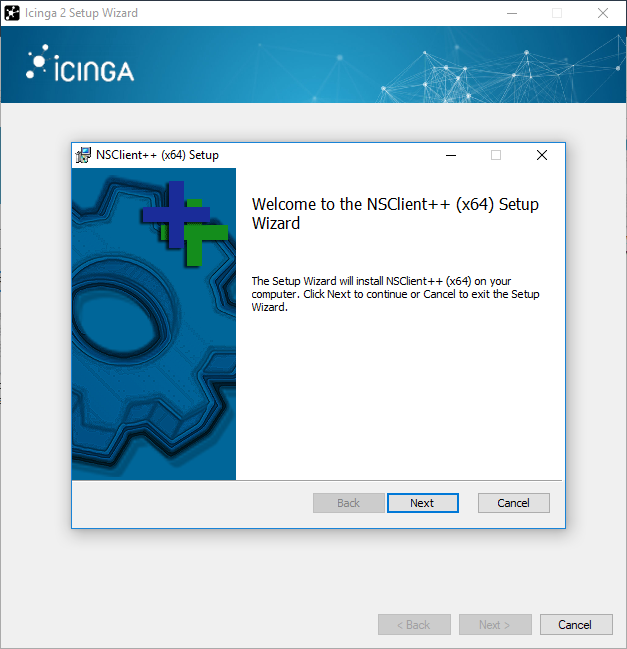
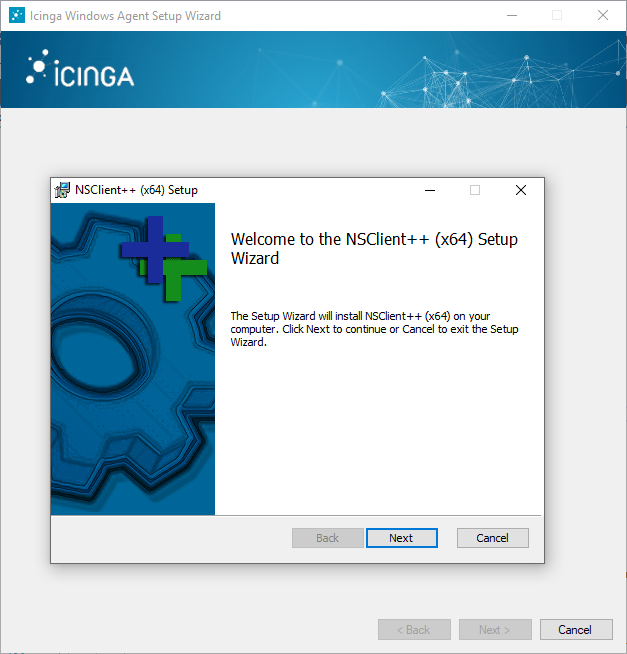
Docs: Refresh Windows agent setup images for 2.11

Changed region(s): [[0.0606, 0.2157, 0.9394, 0.8937], [0.0, 0.0, 1.0, 0.1849], [0.8788, 0.9553, 0.9394, 0.9861]]

diff --git a/doc/06-distributed-monitoring.md b/doc/06-distributed-monitoring.md
@@ -750,6 +750,8 @@ the [configuration modes](06-distributed-monitoring.md#distributed-monitoring-co
 
 ### Agent Setup on Windows <a id="distributed-monitoring-setup-agent-windows"></a>
 
+#### Agent Setup on Windows: Installer <a id="distributed-monitoring-setup-agent-windows-installer"></a>
+
 Download the MSI-Installer package from [https://packages.icinga.com/windows/](https://packages.icinga.com/windows/).
 
 Requirements:
@@ -769,8 +771,6 @@ to get you started more easily.
 > Please note that Icinga 2 was designed to run as light-weight agent on Windows.
 > There is no support for satellite instances.
 
-#### Windows Agent Setup Start <a id="distributed-monitoring-setup-agent-windows-start"></a>
-
 Run the MSI-Installer package and follow the instructions shown in the screenshots.
 
 ![Icinga 2 Windows Setup](images/distributed-monitoring/icinga2_windows_setup_installer_01.png)
@@ -779,12 +779,14 @@ Run the MSI-Installer package and follow the instructions shown in the screensho
 ![Icinga 2 Windows Setup](images/distributed-monitoring/icinga2_windows_setup_installer_04.png)
 ![Icinga 2 Windows Setup](images/distributed-monitoring/icinga2_windows_setup_installer_05.png)
 
-The graphical installer offers to run the Icinga 2 setup wizard after the installation. Select
-the check box to proceed.
+The graphical installer offers to run the [Icinga Agent setup wizard](06-distributed-monitoring.md#distributed-monitoring-setup-agent-windows-configuration-wizard)
+after the installation. Select the check box to proceed.
 
 > **Tip**
 >
-> You can also run the Icinga 2 setup wizard from the Start menu later.
+> You can also run the Icinga agent setup wizard from the Start menu later.
+
+#### Agent Setup on Windows: Configuration Wizard <a id="distributed-monitoring-setup-agent-windows-configuration-wizard"></a>
 
 On a fresh installation the setup wizard guides you through the initial configuration.
 It also provides a mechanism to send a certificate request to the [CSR signing master](distributed-monitoring-setup-sign-certificates-master).
@@ -816,13 +818,13 @@ When needed you can add an additional global zone (the zones `global-templates` 
 
 Optionally enable the following settings:
 
-  Parameter                         | Description
-  ----------------------------------|----------------------------------
-  Accept config                     | **Optional.** Whether this node accepts configuration sync from the master node (required for [config sync mode](06-distributed-monitoring.md#distributed-monitoring-top-down-config-sync)). For [security reasons](06-distributed-monitoring.md#distributed-monitoring-security) this is disabled by default.
-  Accept commands                   | **Optional.** Whether this node accepts command execution messages from the master node (required for [command endpoint mode](06-distributed-monitoring.md#distributed-monitoring-top-down-command-endpoint)). For [security reasons](06-distributed-monitoring.md#distributed-monitoring-security) this is disabled by default.
-  Run Icinga 2 service as this user | **Optional.** Specify a different Windows user. This defaults to `NT AUTHORITY\Network Service` and is required for more privileged service checks.
-  Install NSClient++                | **Optional.** The Windows installer bundles the NSClient++ installer for additional [plugin checks](06-distributed-monitoring.md#distributed-monitoring-windows-nscp).
-  Disable conf.d                    | **Optional.** Allows to disable the `include_recursive "conf.d"` directive except for the `api-users.conf` file in the `icinga2.conf` file. Defaults to `true`.
+  Parameter                                               | Description
+  --------------------------------------------------------|----------------------------------
+  Accept commands from master/satellite instance(s)       | **Optional.** Whether this node accepts command execution messages from the master node (required for [command endpoint mode](06-distributed-monitoring.md#distributed-monitoring-top-down-command-endpoint)). For [security reasons](06-distributed-monitoring.md#distributed-monitoring-security) this is disabled by default.
+  Accept config updates from master/satellite instance(s) | **Optional.** Whether this node accepts configuration sync from the master node (required for [config sync mode](06-distributed-monitoring.md#distributed-monitoring-top-down-config-sync)). For [security reasons](06-distributed-monitoring.md#distributed-monitoring-security) this is disabled by default.
+  Run Icinga 2 service as this user                       | **Optional.** Specify a different Windows user. This defaults to `NT AUTHORITY\Network Service` and is required for more privileged service checks.
+  Install/Update bundled NSClient++                       | **Optional.** The Windows installer bundles the NSClient++ installer for additional [plugin checks](06-distributed-monitoring.md#distributed-monitoring-windows-nscp).
+  Disable including local 'conf.d' directory              | **Optional.** Allows to disable the `include_recursive "conf.d"` directive except for the `api-users.conf` file in the `icinga2.conf` file. Defaults to `true`.
 
 ![Icinga 2 Windows Setup](images/distributed-monitoring/icinga2_windows_setup_wizard_03.png)
 
